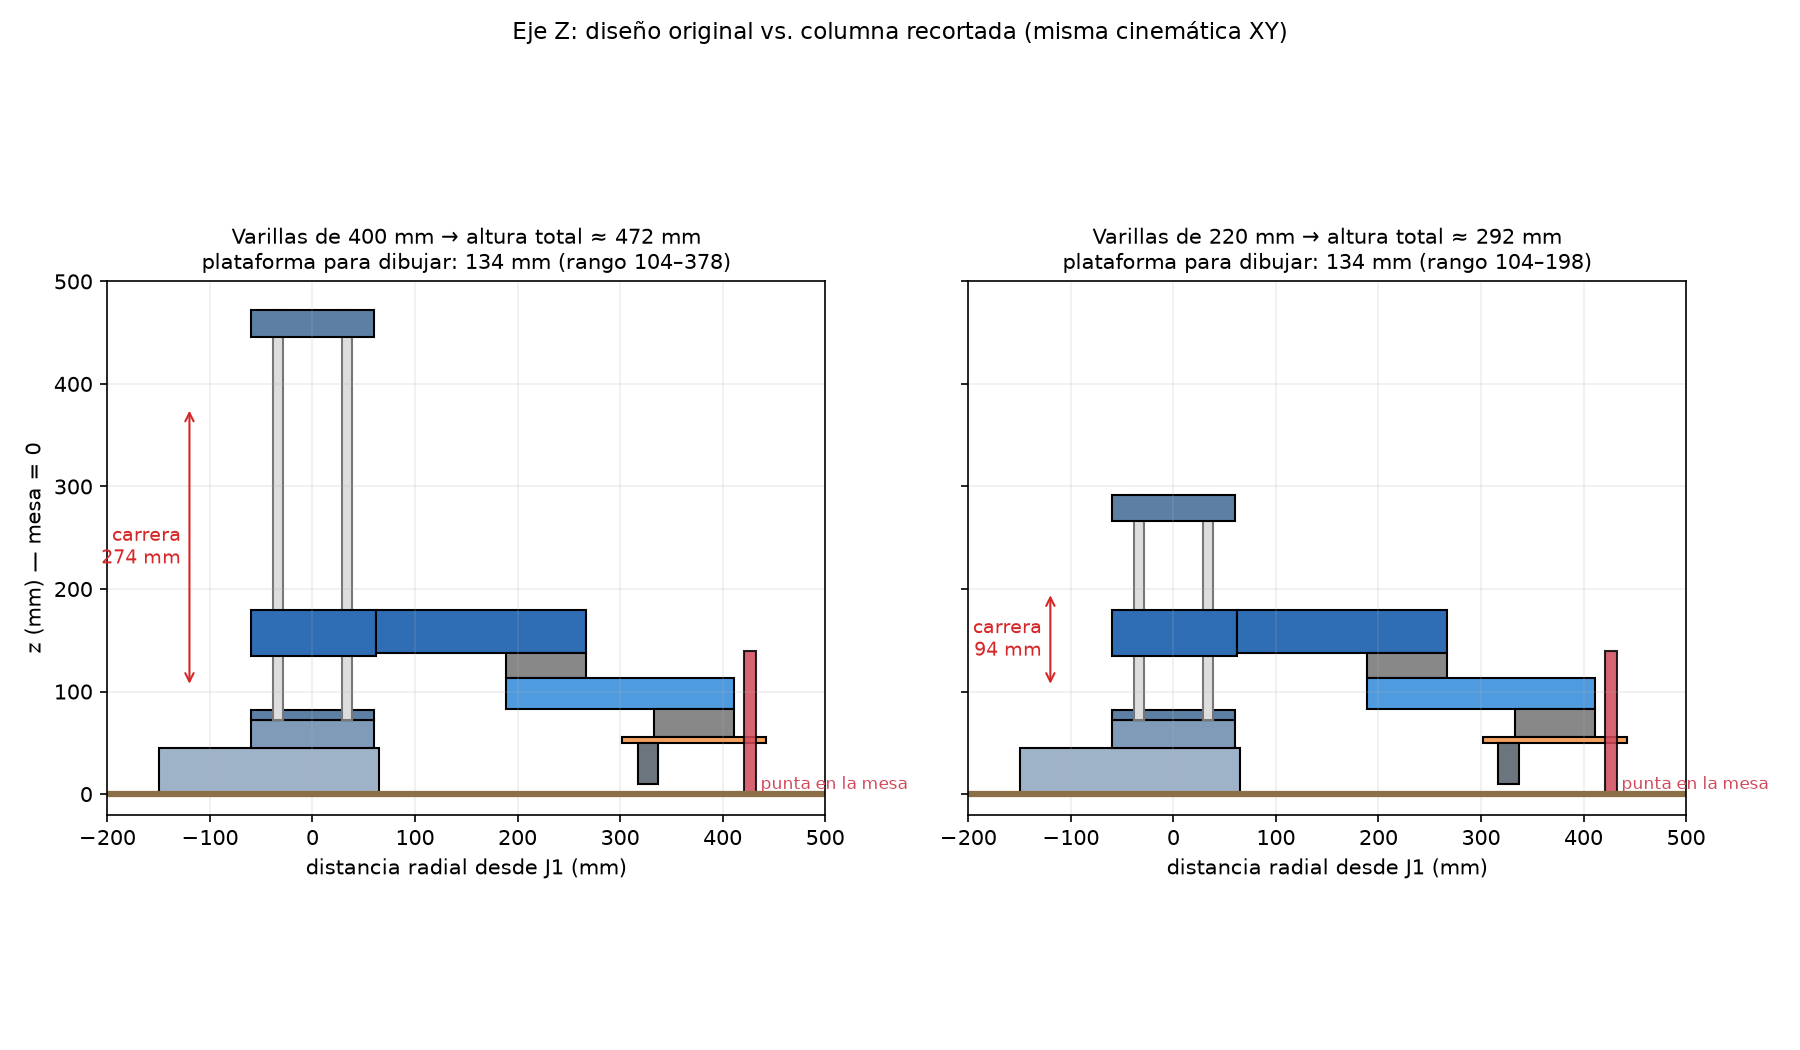
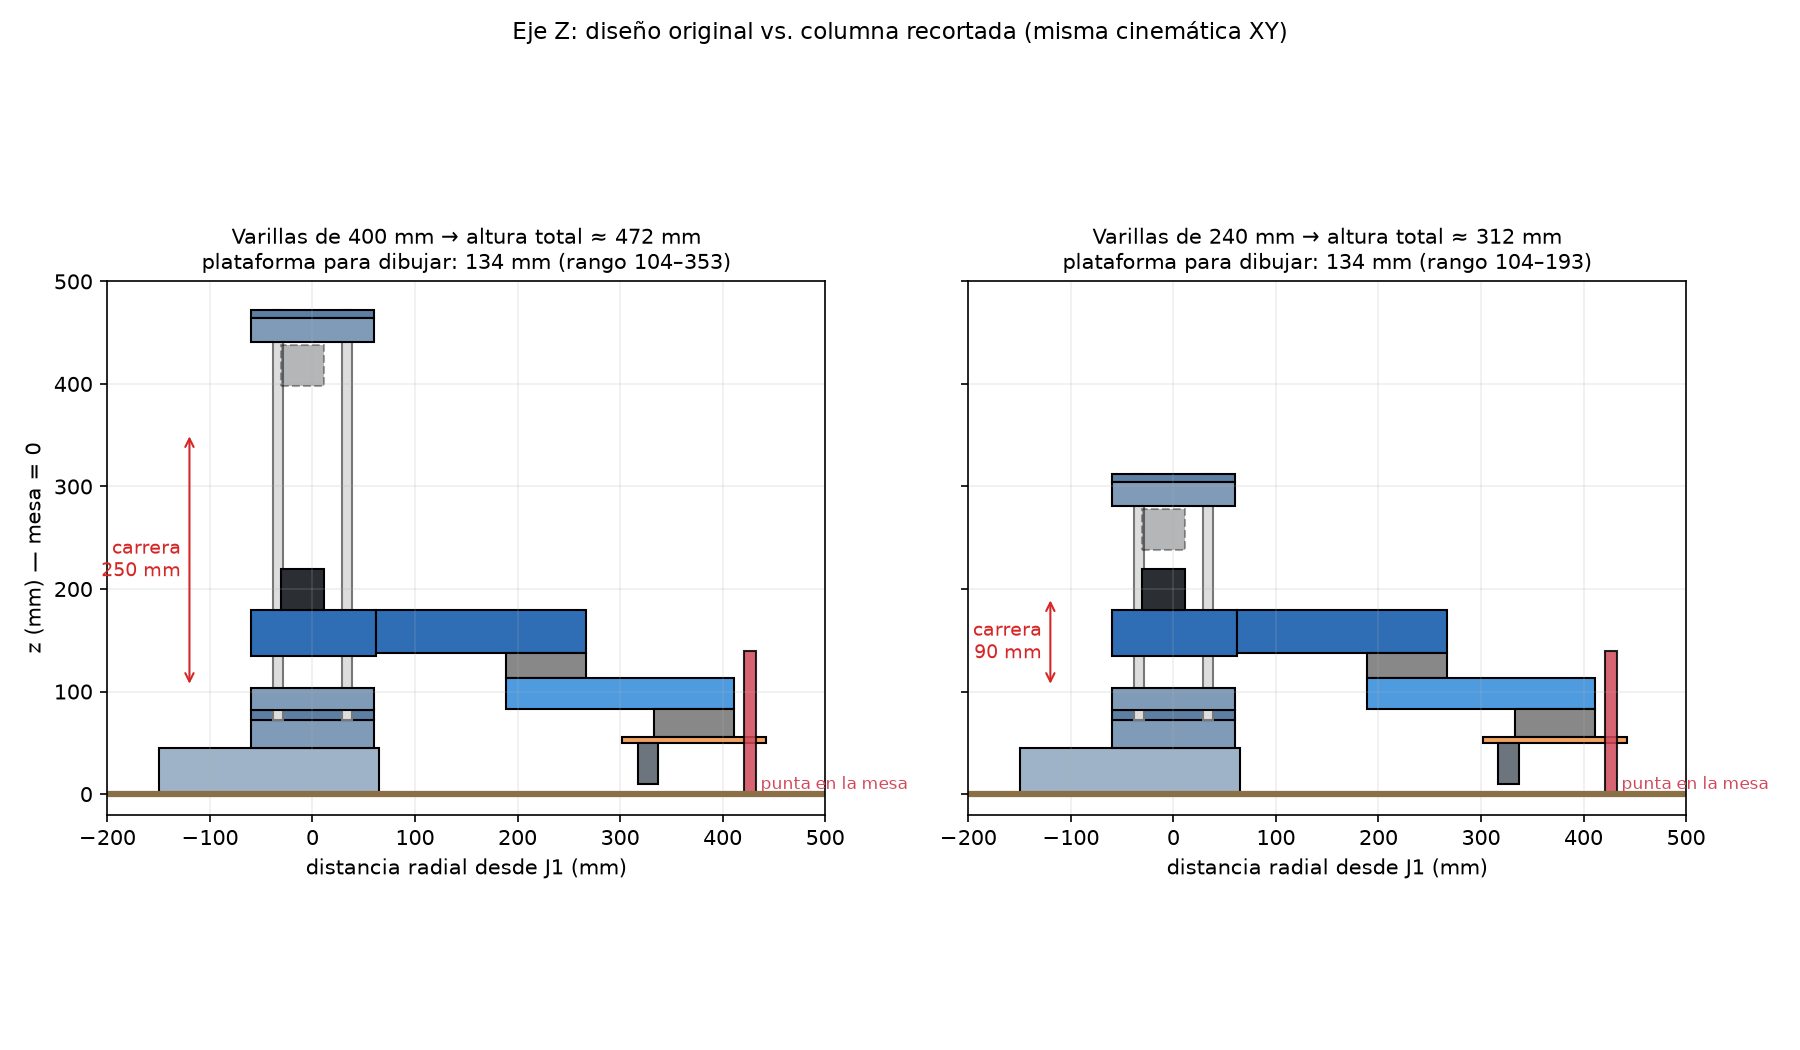
fix(modelo): limit Z travel by the J2 motor and attach the top cover to the plate

diff --git a/python/scara_modelo.py b/python/scara_modelo.py
@@ -56,7 +56,8 @@ TH2_LIM = (-150.0, 150.0)
 H_BASE = 45.0  # Base.STL
 H_J1_COUPLER = 27.0  # J1 coupler.STL (gira con J1)
 H_PLACA_INF = 10.0  # Z-axis Bottom Plate.STL
-H_PLACA_SUP = 26.0  # Z-axis Top Plate.STL
+H_PLACA_SUP = 26.0  # Z-axis Top Plate.STL (disco de 8 mm + saliente de 18 mm hacia abajo)
+H_PLACA_SUP_DISCO = 8.0  # la Top cover se pega bajo este disco y envuelve el saliente
 H_TAPA_INF = 21.5  # Base cover.STL (sobre la placa inferior)
 H_TAPA_SUP = 23.0  # Top cover.STL (bajo la placa superior)
 H_PLATAFORMA = 45.0  # Z-axis Mount Platform.STL (desliza en 4 varillas)
@@ -66,6 +67,8 @@ H_ARM2 = 31.0
 H_J3_COUPLER = 22.0
 H_CONECTOR = 4.5  # Gripper to J3 connector.STL -> brida del cabezal
 LARGO_VARILLA_ORIGINAL = 400.0
+H_MOTOR_J2 = 40.0  # NEMA 17 estandar sobre la plataforma (24 mm si se usa el corto, como en J3)
+HOLGURA_MOTOR_J2 = 3.0
 
 Z_VARILLA_INF = H_BASE + H_J1_COUPLER  # donde arrancan las varillas (72)
 
@@ -105,11 +108,18 @@ def z_plataforma_para_punta(z_punta: float, herr: Herramienta, cab: Cabezal) -> 
     return z_punta + caida_brida_desde_plataforma() + cab.espesor_placa + herr.bajo_cabezal_mm
 
 
-def carrera_z(largo_varilla: float) -> tuple[float, float]:
-    """Rango [min, max] de la base de la plataforma para un largo de varilla dado."""
-    # Las tapas (Base cover / Top cover) ocultan abrazaderas y limitan la carrera
+def fondo_tapa_sup(largo_varilla: float) -> float:
+    """Altura de la cara inferior de la Top cover (pegada al disco de la placa superior)."""
+    return Z_VARILLA_INF + largo_varilla - H_PLACA_SUP_DISCO - H_TAPA_SUP
+
+
+def carrera_z(largo_varilla: float, h_motor_j2: float = H_MOTOR_J2) -> tuple[float, float]:
+    """Rango [min, max] de la base de la plataforma para un largo de varilla dado.
+
+    Abajo limita la Base cover; arriba, el NEMA de J2 (lo mas alto de la plataforma) contra la Top cover.
+    """
     z_min = Z_VARILLA_INF + H_PLACA_INF + H_TAPA_INF
-    z_max = Z_VARILLA_INF + largo_varilla - H_PLACA_SUP - H_TAPA_SUP - H_PLATAFORMA
+    z_max = fondo_tapa_sup(largo_varilla) - H_PLATAFORMA - h_motor_j2 - HOLGURA_MOTOR_J2
     return z_min, z_max
 
 

diff --git a/python/simular_scara.py b/python/simular_scara.py
@@ -238,8 +238,13 @@ def fig_pila_z(varilla):
         ax.add_patch(Rectangle((-60, m.Z_VARILLA_INF), 120, m.H_PLACA_INF, fc="#5d7fa3", ec="k"))
         for xv in (-33.6, 33.6):
             ax.add_patch(Rectangle((xv - 5, m.Z_VARILLA_INF), 10, L, fc="#ddd", ec="#777"))
-        ax.add_patch(Rectangle((-60, top - m.H_PLACA_SUP), 120, m.H_PLACA_SUP, fc="#5d7fa3", ec="k"))
+        ax.add_patch(Rectangle((-60, m.Z_VARILLA_INF + m.H_PLACA_INF), 120, m.H_TAPA_INF, fc="#7f9bb8", ec="k"))
+        ax.add_patch(Rectangle((-60, top - m.H_PLACA_SUP_DISCO), 120, m.H_PLACA_SUP_DISCO, fc="#5d7fa3", ec="k"))
+        ax.add_patch(Rectangle((-60, m.fondo_tapa_sup(L)), 120, m.H_TAPA_SUP, fc="#7f9bb8", ec="k"))
         ax.add_patch(Rectangle((-60, zp), 122, m.H_PLATAFORMA, fc=C_ARM1, ec="k"))
+        # NEMA de J2 en su altura maxima: fija el tope superior de Z
+        ax.add_patch(Rectangle((-31, zmax + m.H_PLATAFORMA), 42, m.H_MOTOR_J2, fc="#2b2f33", ec="k", alpha=0.35, ls="--"))
+        ax.add_patch(Rectangle((-31, zp + m.H_PLATAFORMA), 42, m.H_MOTOR_J2, fc="#2b2f33", ec="k"))
         a1 = zp + m.H_PLATAFORMA - m.H_ARM1
         ax.add_patch(Rectangle((62, a1), 205, m.H_ARM1, fc=C_ARM1, ec="k"))
         a2 = a1 - m.H_J2_COUPLER - m.H_ARM2
@@ -343,7 +348,7 @@ def gif(s, varilla, n_frames=150):
 def main():
     ap = argparse.ArgumentParser()
     ap.add_argument("--gif", action="store_true")
-    ap.add_argument("--varilla", type=float, default=220.0, help="largo de varillas Z (mm)")
+    ap.add_argument("--varilla", type=float, default=240.0, help="largo de varillas Z (mm)")
     args = ap.parse_args()
     os.makedirs(OUT, exist_ok=True)
 
